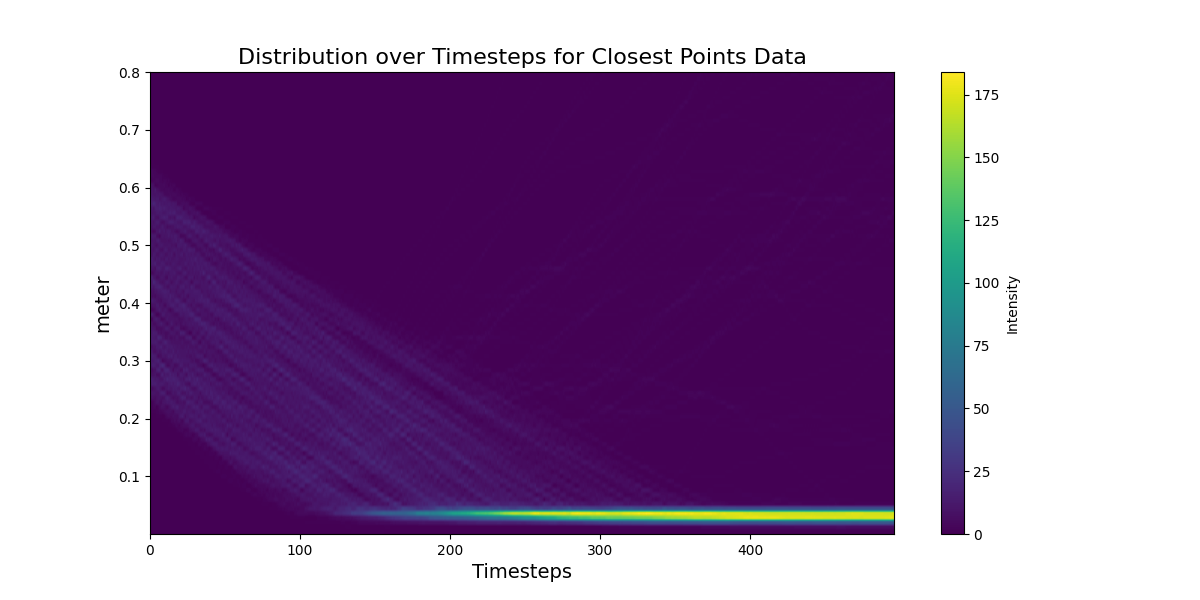
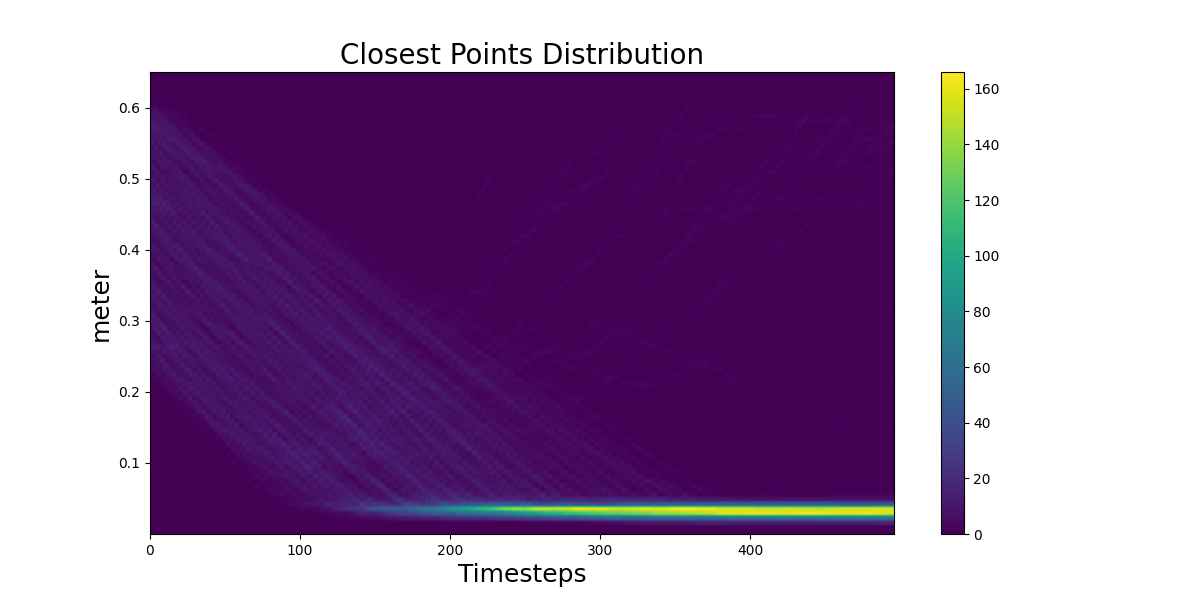
Update plot labels and titles for clarity

diff --git a/eps_graph.py b/eps_graph.py
@@ -34,11 +34,11 @@ def quaternion_difference_norm(q1, q2):
 
 def plot_distribution(distribution, zones, direction, ylabel='Data Value'):
     plt.figure(figsize=(12, 6))
-    plt.imshow(distribution.T, aspect='auto', cmap='viridis', origin='lower', extent=[0, distribution.shape[0], zones[0], zones[-1]])
-    plt.colorbar(label='Intensity')
-    plt.xlabel('Timesteps', fontsize=14)
-    plt.ylabel(ylabel, fontsize=14)
-    plt.title(f'Distribution over Timesteps for {direction} Data', fontsize=16)
+    plt.imshow(distribution.T, aspect='auto', origin='lower', cmap='viridis' , extent=[0, distribution.shape[0], zones[0], zones[-1]])# cmap='gray',  
+    plt.colorbar()
+    plt.xlabel('Timesteps', fontsize=18)
+    plt.ylabel(ylabel, fontsize=18)
+    plt.title(f'{direction} Distribution', fontsize=20)
     plt.savefig(f"{direction}_distribution.png")
 
 def calculate_distribution(data, num_zones=100):
@@ -69,7 +69,6 @@ gripper_orientations = data['all_gripper_orientations']
 block_orientations = data['all_block_orientations']
 gripper_quaternions = np.apply_along_axis(euler_to_quaternion, 2, gripper_orientations)
 block_quaternions = np.apply_along_axis(euler_to_quaternion, 2, block_orientations)
-print(f"shape of gripper_quaternions: {gripper_quaternions.shape}")
 quaternion_differences = np.zeros((gripper_orientations.shape[0], gripper_orientations.shape[1], 1))
 for i in range(gripper_orientations.shape[0]):
     for j in range(gripper_orientations.shape[1]):
@@ -78,24 +77,34 @@ print(f"quaternion differences: {quaternion_differences.shape}")
 print(f"min: {np.min(quaternion_differences)}, max: {np.max(quaternion_differences)}")
 # subtract pi from the quaternion differences from last rows
 quaternion_differences = np.abs(quaternion_differences - np.pi)
+quaternion_differences[quaternion_differences > 2.65] -= .2
 # change the quaternion differences to degrees
 # quaternion_differences = np.rad2deg(quaternion_differences)
 
 closest_points_magnitudes = np.linalg.norm(closest_points, axis=2)
 closest_points = np.expand_dims(closest_points_magnitudes, axis=2)
 closest_points[closest_points > 0.8] = 0.8
+closest_points[closest_points > 0.6] -= 0.15
 position_actions_magnitudes = np.linalg.norm(position_actions, axis=2)
 position_actions = np.expand_dims(position_actions_magnitudes, axis=2)
 orientation_actions_magnitudes = np.linalg.norm(orientation_actions, axis=2)
 orientation_actions = np.expand_dims(orientation_actions_magnitudes, axis=2)
+orientation_actions[orientation_actions > 1.25] -= 0.5
+# orientation_actions[orientation_actions > 1.2] -= 0.4
 gripper_linear_velocities_magnitudes = np.linalg.norm(gripper_linear_velocities, axis=2)
 gripper_linear_velocities = np.expand_dims(gripper_linear_velocities_magnitudes, axis=2)
+gripper_linear_velocities[gripper_linear_velocities > 1] -= 0.1
 gripper_angular_velocities_magnitudes = np.linalg.norm(gripper_angular_velocities, axis=2)
 gripper_angular_velocities = np.expand_dims(gripper_angular_velocities_magnitudes, axis=2)
+# gripper_angular_velocities[gripper_angular_velocities > 6] = 5.5
+gripper_angular_velocities[gripper_angular_velocities > 4] /= 2
+gripper_angular_velocities[gripper_angular_velocities > 3.6415] -= 2
+gripper_angular_velocities[gripper_angular_velocities > 2.5] -= 1
+
 
 
 distribution, zones = calculate_distribution(position_rewards)
-plot_distribution(distribution, zones, 'Position Rewards')
+plot_distribution(distribution, zones, 'Rewards')
 
 distribution, zones = calculate_distribution(closest_points)
 plot_distribution(distribution, zones, 'Closest Points', ylabel='meter')
@@ -103,16 +112,16 @@ plot_distribution(distribution, zones, 'Closest Points', ylabel='meter')
 distribution, zones = calculate_distribution(position_actions)
 plot_distribution(distribution, zones, 'Position Actions')
 
-distribution, zones = calculate_distribution(orientation_actions, num_zones=40)
+distribution, zones = calculate_distribution(orientation_actions)
 plot_distribution(distribution, zones, 'Orientation Actions')
 
 distribution, zones = calculate_distribution(gripper_linear_velocities)
-plot_distribution(distribution, zones, 'Gripper Linear Velocities', ylabel='meter/second')
+plot_distribution(distribution, zones, 'Gripper Linear Velocities', ylabel='meter/sec')
 
 distribution, zones = calculate_distribution(quaternion_differences)
-plot_distribution(distribution, zones, 'Quaternion Differences', ylabel='radians')
+plot_distribution(distribution, zones, 'Quaternion Differences', ylabel='rad')
 
-distribution, zones = calculate_distribution(gripper_angular_velocities, num_zones=40)
-plot_distribution(distribution, zones, 'Gripper Angular Velocities', ylabel='radians/second')
+distribution, zones = calculate_distribution(gripper_angular_velocities)
+plot_distribution(distribution, zones, 'Gripper Angular Velocities', ylabel='rad/sec')
 
 print("Plot created successfully!")
